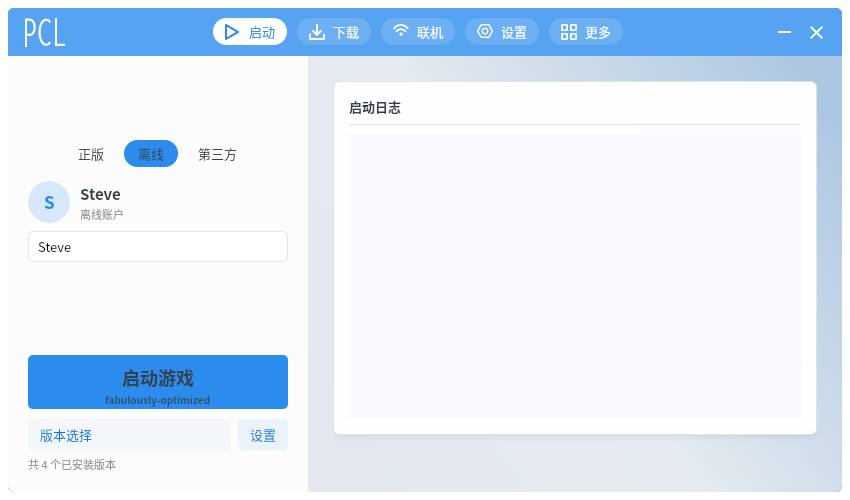
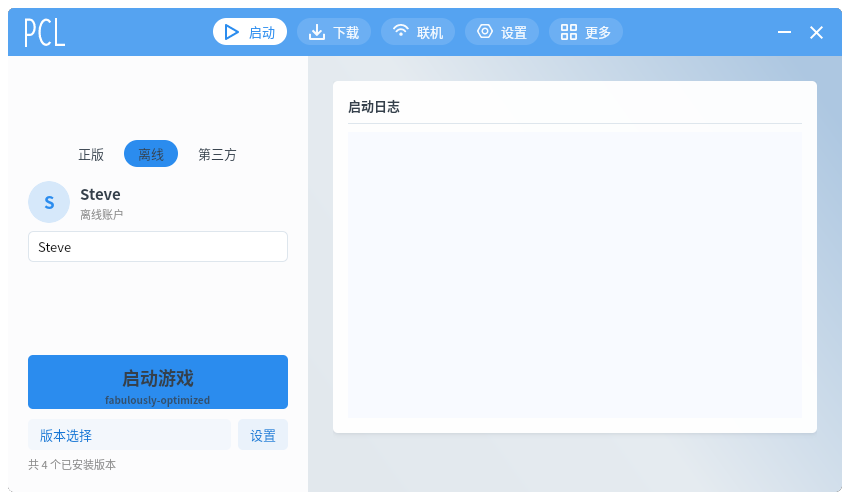
UI: match PCL2 MyCard style

Changed region(s): [[0.3976, 0.18, 0.9482, 0.27]]

diff --git a/docs/UI_REFERENCE.md b/docs/UI_REFERENCE.md
@@ -15,7 +15,7 @@
 | 顶部导航 | 高 27px，圆角 13.5；选中白底、蓝字/蓝图标 |
 | 启动页左栏 | 300px |
 | 右侧内容边距 | 25px（启动页 25,25,25,10） |
-| 卡片 | 圆角 6；参考 PCL-ME `PclCard` 加 1px 边线/轻阴影 |
+| 卡片 | PCL2 `MyCard`：圆角 5、无边框、背景 #F5FFFFFF、3px 柔和阴影 |
 | 页面背景 | 蓝色渐变（PCL-ME：`#96C0F9 → #E0EAFD → #D5E6FD`） |
 
 ## 当前实现
